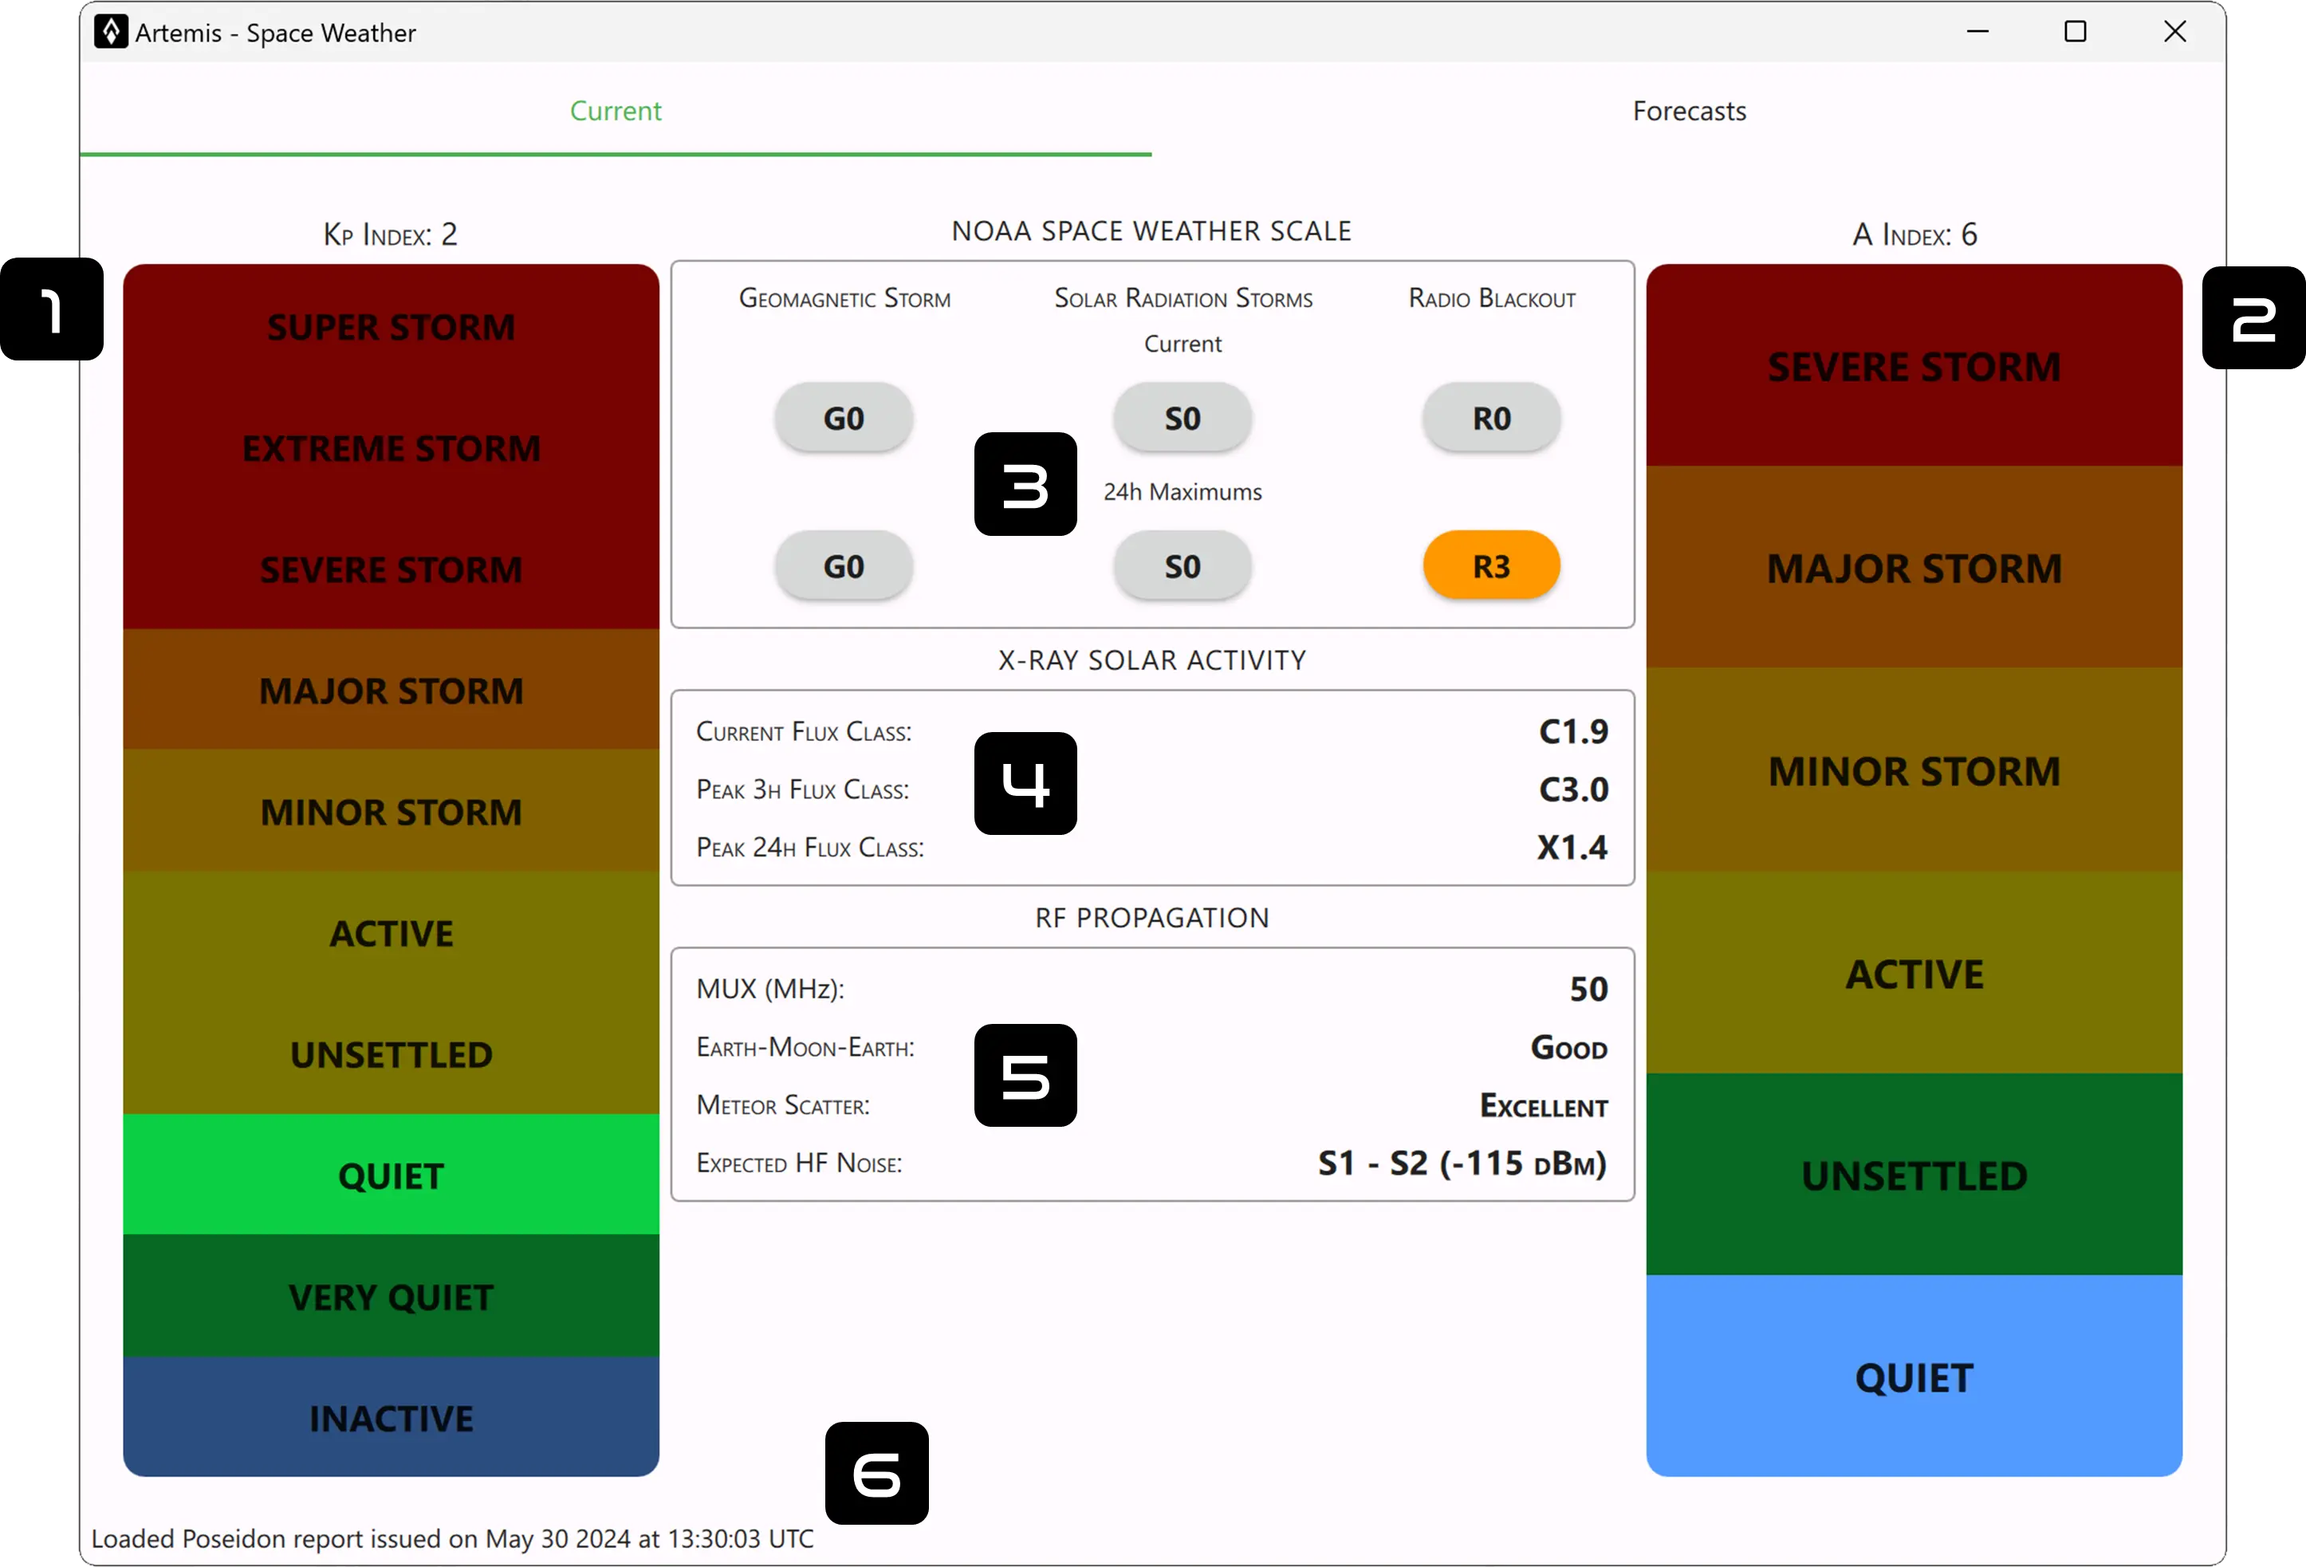
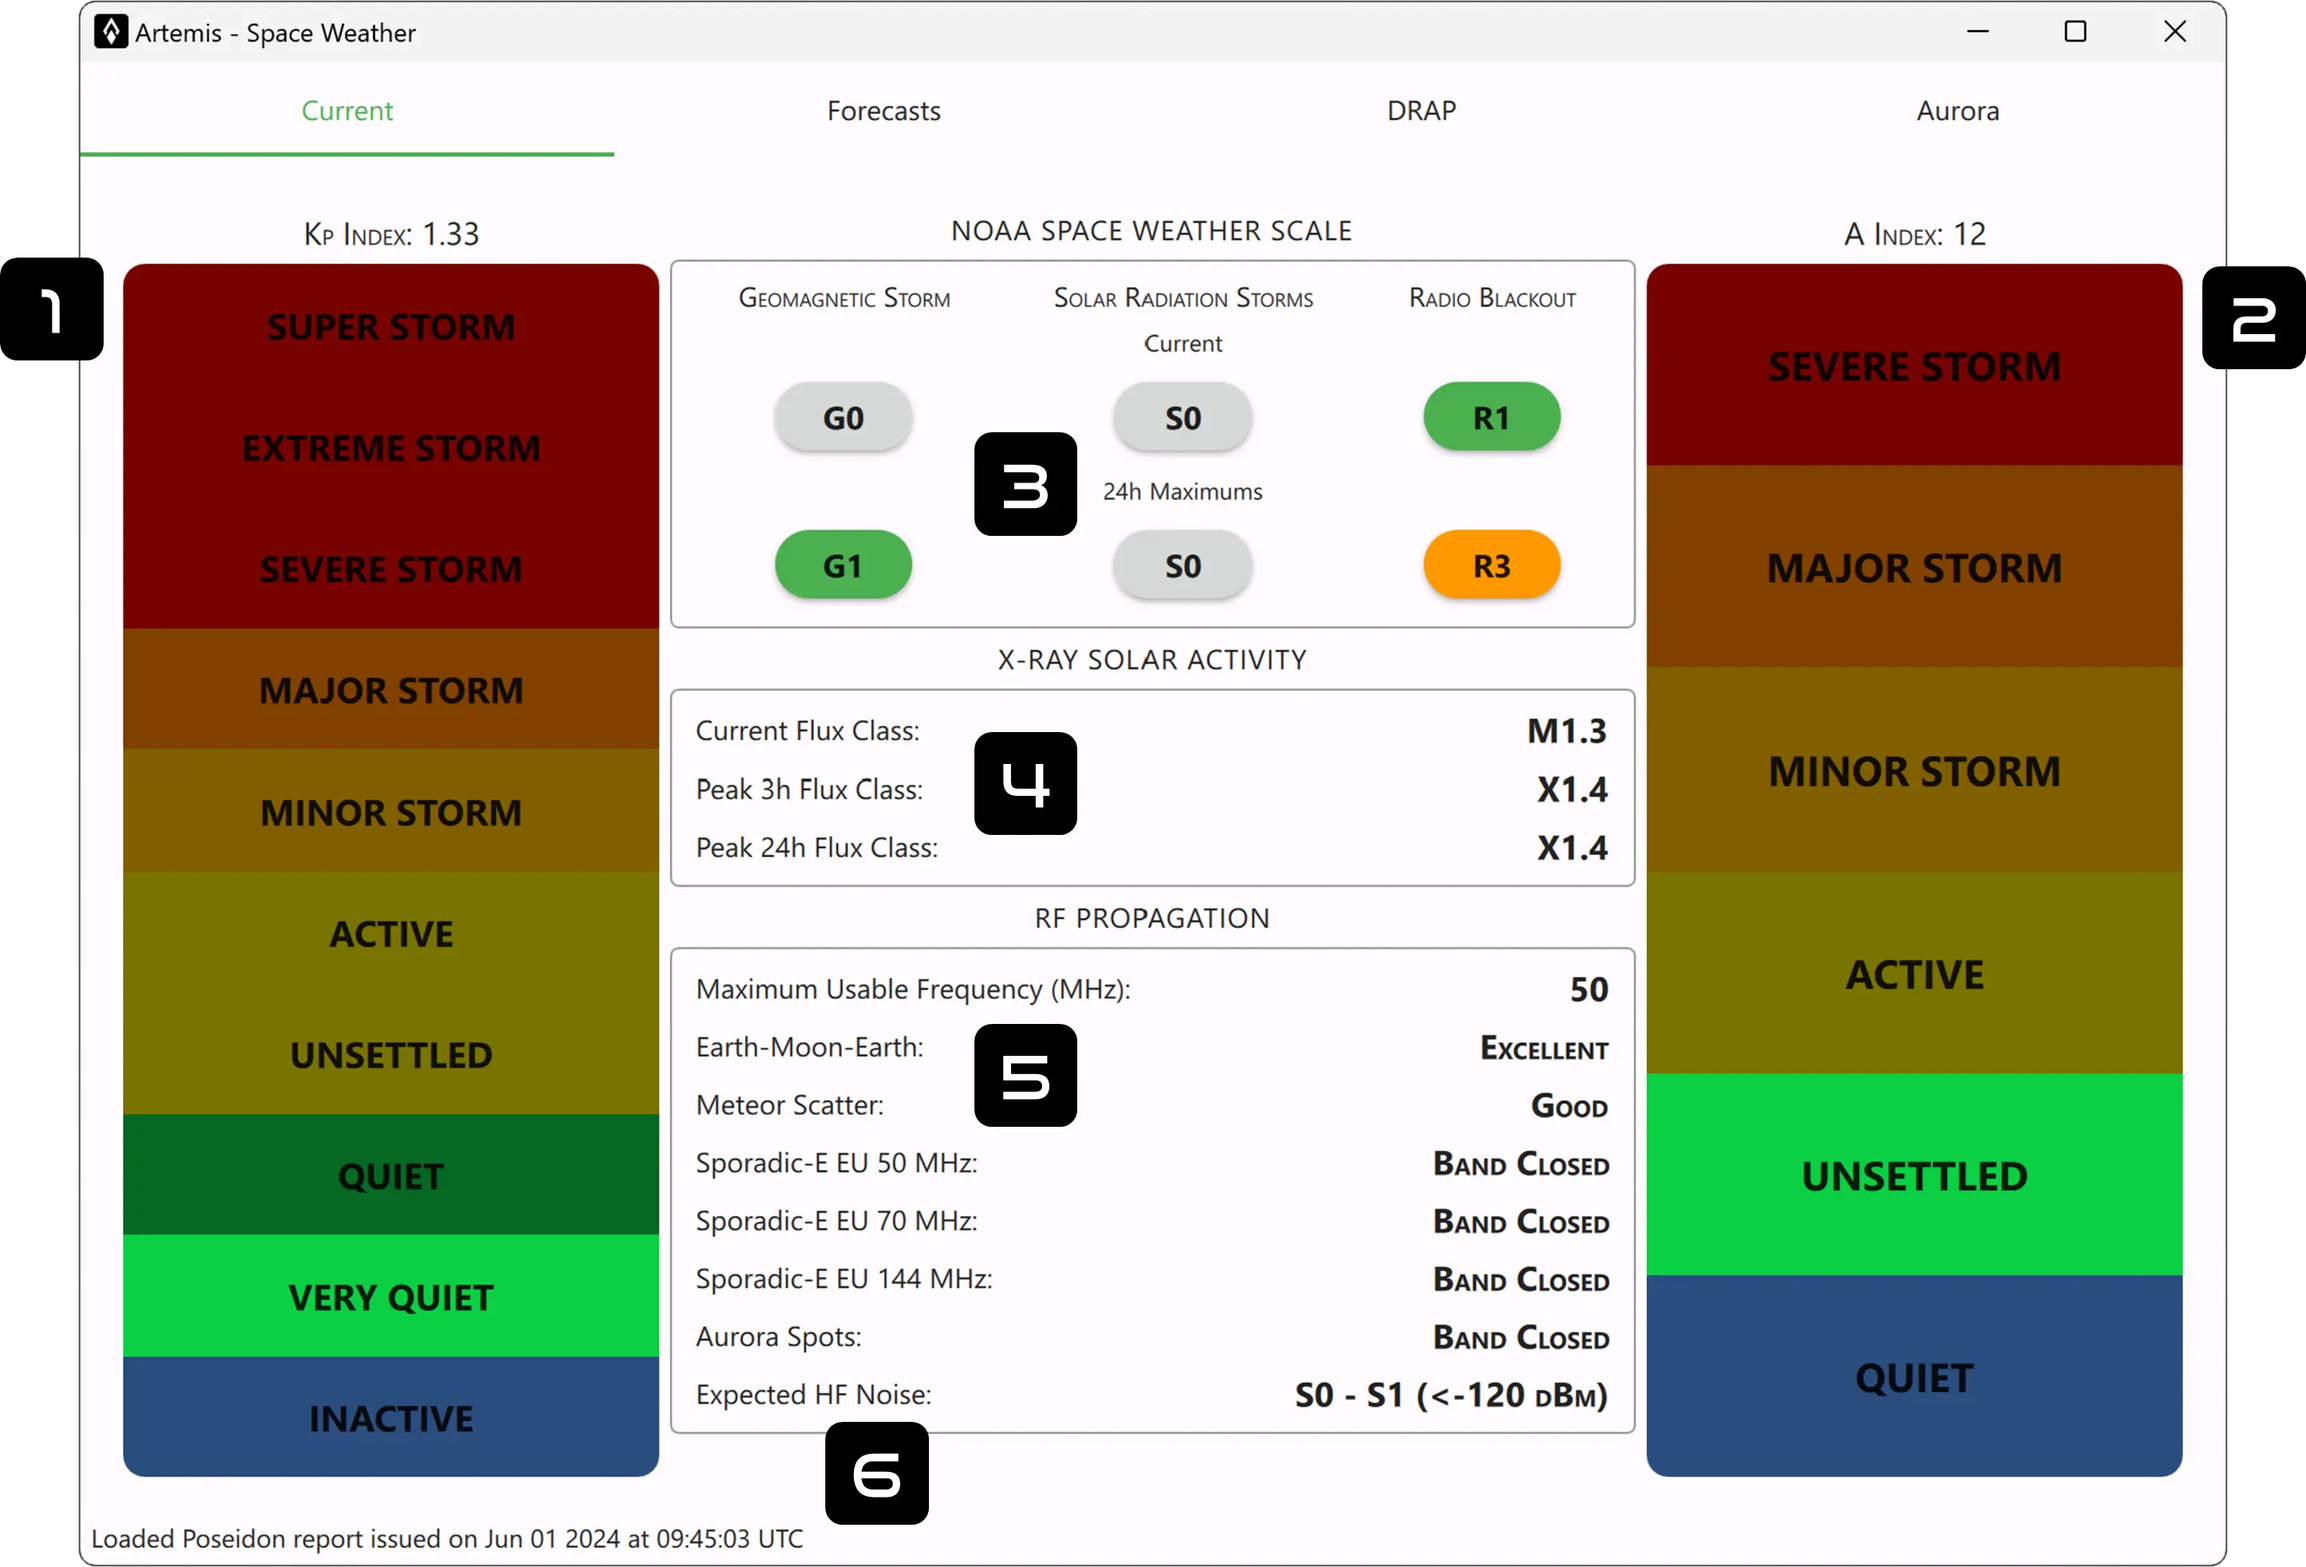
Added documentation for the new 2 products implemented in the previous commits

diff --git a/docs/space_weather/current.md b/docs/space_weather/current.md
@@ -195,6 +195,16 @@ Earth–Moon–Earth communication (EME), commonly referred to as Moon bounce, i
 ### Meteor Scatter
 Meteor burst communications (MBC), also known as meteor scatter (MS) communications, is a radio propagation technique that uses the ionized trails created by meteors entering the atmosphere to establish brief communication links between radio stations up to 2,250 kilometers (1,400 miles) apart. This can involve either forward-scatter or back-scatter of the radio waves. Like EME, the value gives the probability of a succesfull connection.
 
+### Sporadic-E
+**Report of the latest E-skip spots on 50, 70 & 144 MHz by [DXrobot](https://dxrobot.gooddx.net/)**
+
+Sporadic E (Es or SpE) is a rare type of radio propagation that uses a lower part of the Earth's ionosphere, which typically doesn't refract radio waves. It reflects signals off small "clouds" in the E region at altitudes of 95-150 km (50-100 miles). Unlike the regular F region skywave propagation, which depends on daily cycles of ionized layers from UV light, Sporadic E uses transient ionized patches. This allows for occasional long-distance VHF communication, usually during the six weeks around the summer solstice, beyond the normal line-of-sight range.
+
+### Aurora Spots
+**Report of the latest aurora spots on 50, 70 & 144 MHz by [DXrobot](https://dxrobot.gooddx.net/)**
+
+Auroral propagation, or auroral backscatter, is a form of radio propagation that occurs during an auroral event, affecting VHF and UHF communications. Increased ionization in the E layer of the ionosphere reflects signals at much higher frequencies than usual, enabling communication up to 1000 MHz, though 500 MHz is more common. Signals are directed towards the auroral region and reflected back, but they are often distorted due to particle movement (the signal is roughly Doppler shifted of 1 kHz at around 150 MHz as the electrons stream down).
+
 ### Expected HF Noise
 This is just the expected noise in HF based on the current Space Weather conditions.
 

diff --git a/docs/space_weather/aurora.md b/docs/space_weather/aurora.md
@@ -1,0 +1,9 @@
+#
+
+![sw_current](../assets/sw_4.webp)
+
+This short-term aurora forecast predicts its location and intensity over the next 30 to 90 minutes, based on the [OVATION model](https://www.swpc.noaa.gov/products/aurora-30-minute-forecast). The lead time of the forecast corresponds to the duration it takes for the solar wind to travel from the L1 observation point to Earth.
+
+Auroras indicate current geomagnetic storm conditions and provide situational awareness for various technologies: for example, they directly affect HF radio communication and GPS/GNSS satellite navigation and are related to ground-induced currents impacting electric power transmission.
+
+For many people, the aurora is a beautiful nighttime phenomenon that is worth traveling to arctic regions just to observe.  It is the only way for most people to actually experience space weather.

diff --git a/docs/space_weather/drap.md b/docs/space_weather/drap.md
@@ -1,0 +1,7 @@
+#
+
+![sw_current](../assets/sw_3.webp)
+
+The D-Region Absorption Product (DRAP) evaluates the effects of solar X-ray flux and solar energetic particle (SEP) events on HF radio communication. Long-distance communications using high frequency (HF) radio waves (3 - 30 MHz) rely on signal reflection in the ionosphere. Typically, radio waves reflect near the peak of the F2 layer (~300 km altitude), but during their journey to and from this peak, the signals experience attenuation due to absorption by the intervening ionosphere.
+
+The [D-Region Absorption Prediction model](https://www.swpc.noaa.gov/products/d-region-absorption-predictions-d-rap) provides guidance to understand the degradation and blackouts of HF radio communications that can result from these conditions.
